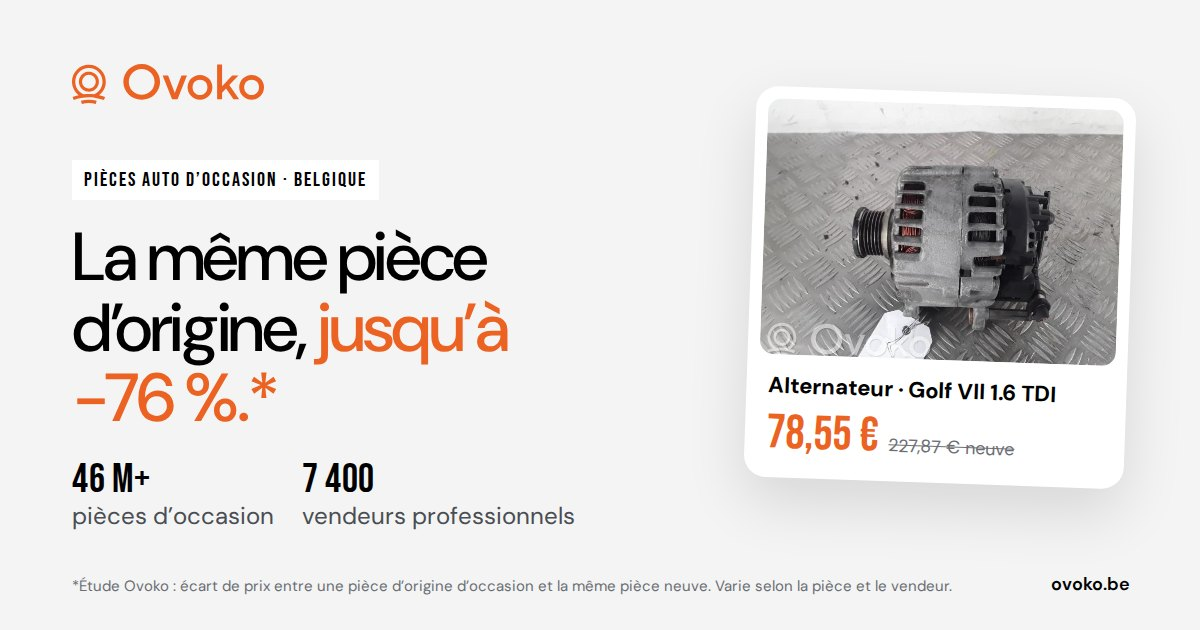
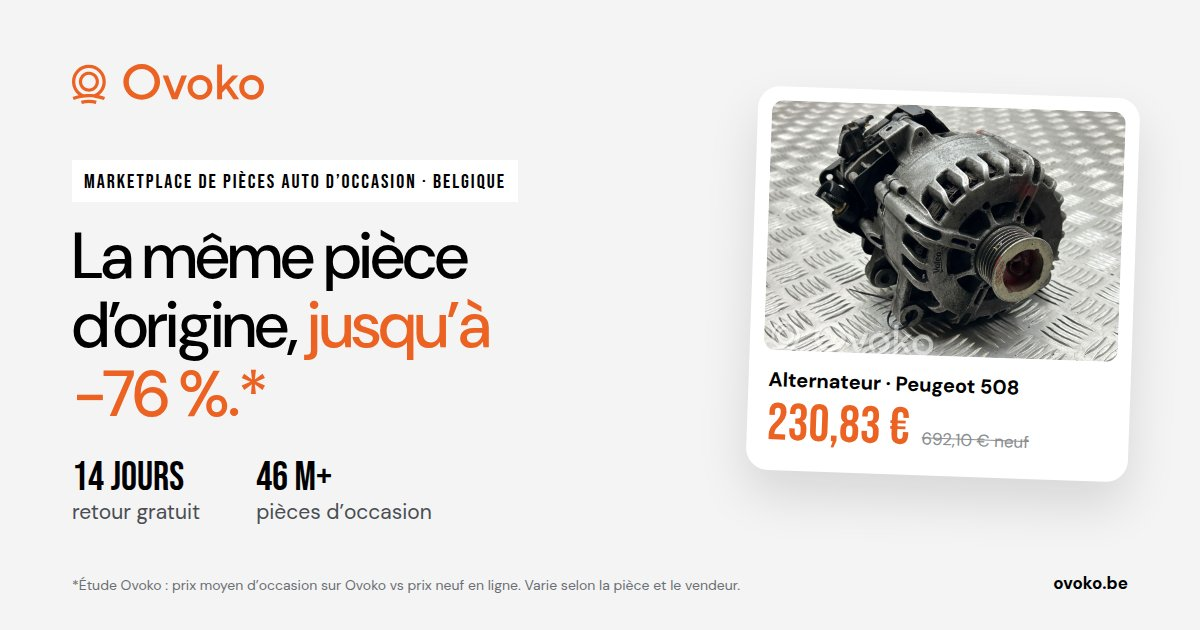
Final handoff: share image shows the 508 example, README matches the final page
Claude-Session: https://claude.ai/code/session_013vihC7UiHePDtSax7mz6bF

diff --git a/README.md b/README.md
@@ -6,11 +6,11 @@ Static site with no build step. Open `index.html` in a browser to preview it.
 - `index.html`: full page
 - `simple.html`: short version
 
-## Tracking
-- UTM parameters and click IDs (fbclid, gclid) on the landing URL are passed through to every ovoko.be link.
-- When the landing URL has none, links get `utm_source=landing&utm_medium=lp_be_fr`.
+## Links & tracking
+- Links go out exactly as written: no UTM parameters or click IDs are added.
+- Every external link opens in a new tab (`target="_blank" rel="noopener"`).
+- All "Trouvez votre pièce" buttons link to https://ovoko.be/fr.
 - Every CTA click sends `fbq('trackCustom','OutboundClick',{cta})` and pushes `outbound_click` to `dataLayer`.
-- The hero listing cards count as CTAs too (`hero-card-*`).
 - Paste the Meta Pixel base code where the `<!-- Meta Pixel -->` comment is, in the `<head>` of both pages.
 
 ## Motion
@@ -43,7 +43,6 @@ The logos in `assets/press/` come from these sources:
 - Les Numériques: the logo on its own site.
 - Le Journal de l'Automobile: traced from the logo on its site.
 
-## Before going live
-- FAQ questions 2–6 need a native French proofread.
-- "100 % entreprises vérifiées": needs a confirmed source.
-- The 76 % footnote: confirm what the study compared.
+## Claims
+- The "−76 %" and "1 an de garantie" claims point to the two notes above the footer, which link to ovoko.fr/blog/pieces-auto-doccasion-vs-neuves and ovoko.be/fr/retours-et-garantie.
+- The French copy of `index.html` follows the client's copy review of 29–30 September 2026.
